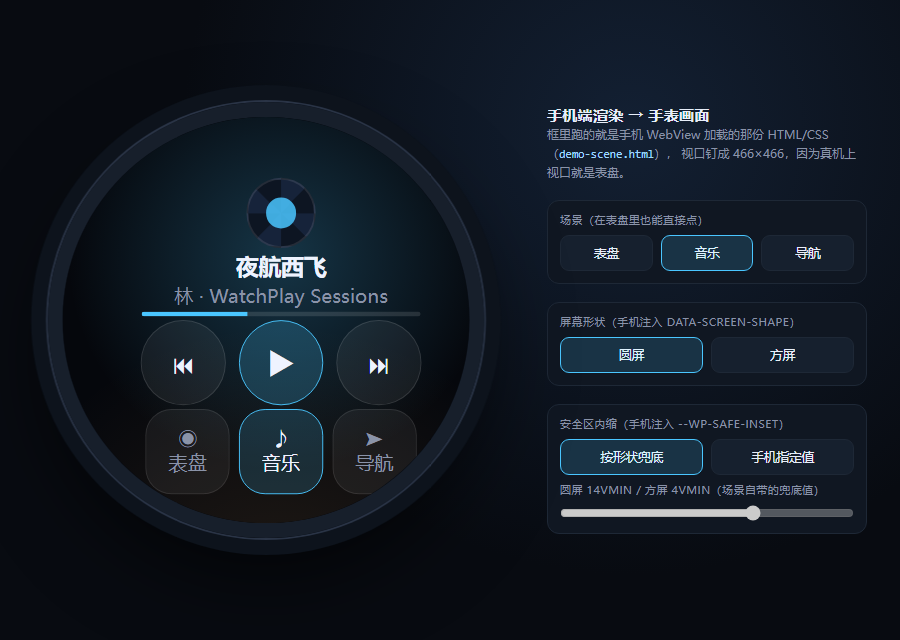
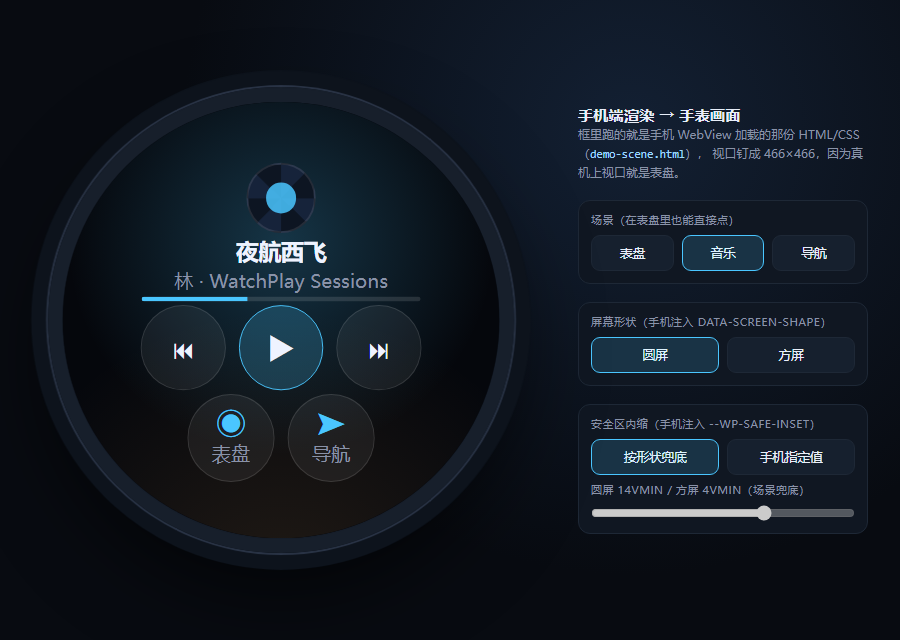
场景：每页只给"别的页面"的入口，并修掉预览外壳的 16px 裁切
表盘原来同时有两个快捷圆钮和底部三键，音乐/导航页也各自留着自己的入口——重复且没必要。改成每页只放另外两个页面的切换键。
另外 .device 是 border-box，466px 里塞了 16px 边框和 466px 的 iframe，右边和下边各被裁 16px，画面看着整体偏右下。改成 content-box 后实测按钮行中心 280.5 = 面板中心 280.5。

diff --git a/examples/watch-ui/demo-scene.html b/examples/watch-ui/demo-scene.html
@@ -56,19 +56,19 @@ html,body{
 /* 不许被 flex 压扁：圆形的封面一压就成了椭圆，这在 466px 的圆屏上很显眼。 */
 .overlay > *{ flex:0 0 auto; }
 
-/* ---------------------------------------------------------------- 底部三键 */
-.tabs{ display:flex; gap:2vmin; align-items:center; justify-content:center; }
-.btn-tab{
-  width:19.4vmin; height:19.4vmin; border-radius:6vmin;
-  display:flex; flex-direction:column; align-items:center; justify-content:center; gap:.4vmin;
-  background:rgba(255,255,255,.055); border:.35vmin solid rgba(255,255,255,.10);
-  color:var(--wp-dim); font-size:4.4vmin; font-family:inherit;
-  transition:background .12s linear, color .12s linear, border-color .12s linear;
+/* ---------------------------------------------------------------- 底部切换 */
+/* 只放"别的页面"：当前页面不给自己的入口，也不会和场景里的按钮重复。 */
+.tabs{ display:flex; gap:3vmin; align-items:center; justify-content:center; }
+.btn-switch{
+  width:20vmin; height:20vmin; border-radius:50%;
+  display:flex; flex-direction:column; align-items:center; justify-content:center; gap:.5vmin;
+  background:rgba(255,255,255,.06); border:.35vmin solid rgba(255,255,255,.12);
+  color:var(--wp-fg); font-size:4.4vmin; font-family:inherit;
+  transition:background .12s linear, border-color .12s linear;
 }
-.btn-tab[data-current="1"]{
-  color:var(--wp-fg); border-color:var(--wp-accent); background:rgba(74,198,255,.16);
-}
-.btn-tab .k{ font-size:4.4vmin; line-height:1; }
+.btn-switch .ico{ font-size:7vmin; line-height:1; color:var(--wp-accent); }
+.btn-switch .lbl{ font-size:4.4vmin; color:var(--wp-dim); }
+.btn-switch:active{ background:rgba(74,198,255,.22); border-color:var(--wp-accent); }
 
 /* ---------------------------------------------------------------- 表盘 */
 .bg-face{
@@ -78,20 +78,13 @@ html,body{
 }
 .face-top{ display:flex; flex-direction:column; align-items:center; gap:.8vmin; }
 .face-time{
-  font-size:17vmin; line-height:1; font-weight:600; letter-spacing:-.02em;
+  font-size:17vmin; line-height:1; font-weight:600;
   text-shadow:0 0 6vmin rgba(74,198,255,.28);
 }
 .face-date{ font-size:4.6vmin; color:var(--wp-dim); }
-.face-row{ display:flex; gap:5vmin; align-items:center; }
-.btn-quick{
-  width:21vmin; height:21vmin; border-radius:50%;
-  display:flex; flex-direction:column; align-items:center; justify-content:center; gap:.6vmin;
-  background:rgba(255,255,255,.06); border:.4vmin solid rgba(255,255,255,.12);
-  color:var(--wp-fg); font-size:4.6vmin; font-family:inherit;
-}
-.btn-quick .ico{ font-size:7vmin; line-height:1; color:var(--wp-accent); }
-.btn-quick .lbl{ font-size:4.4vmin; color:var(--wp-dim); }
-.btn-quick:active{ background:rgba(74,198,255,.22); }
+.face-status{ font-size:4.4vmin; color:var(--wp-dim); opacity:.75; }
+/* 表盘只有"时钟 + 切换"两块：让时钟占满剩余空间并居中，否则会全挤在顶部。 */
+.overlay > .face-top{ flex:1 1 auto; justify-content:center; }
 
 /* ---------------------------------------------------------------- 音乐 */
 .bg-music{
@@ -181,21 +174,12 @@ html,body{
     <div class="face-top">
       <div class="face-time" id="clock">10:09</div>
       <div class="face-date" id="date">周一 3 月 2 日</div>
-    </div>
-
-    <div class="face-row">
-      <button class="btn-quick" data-goto="music" aria-label="打开音乐">
-        <span class="ico">♪</span><span class="lbl">音乐</span>
-      </button>
-      <button class="btn-quick" data-goto="map" aria-label="打开导航">
-        <span class="ico">➤</span><span class="lbl">导航</span>
-      </button>
+      <div class="face-status">电量 82% · 步数 6,240</div>
     </div>
 
     <div class="tabs">
-      <button class="btn-tab" data-goto="face" data-current="1"><span class="k">◉</span>表盘</button>
-      <button class="btn-tab" data-goto="music"><span class="k">♪</span>音乐</button>
-      <button class="btn-tab" data-goto="map"><span class="k">➤</span>导航</button>
+      <button class="btn-switch" data-goto="music"><span class="ico">♪</span><span class="lbl">音乐</span></button>
+      <button class="btn-switch" data-goto="map"><span class="ico">➤</span><span class="lbl">导航</span></button>
     </div>
   </div>
 </section>
@@ -220,9 +204,8 @@ html,body{
     </div>
 
     <div class="tabs">
-      <button class="btn-tab" data-goto="face"><span class="k">◉</span>表盘</button>
-      <button class="btn-tab" data-goto="music" data-current="1"><span class="k">♪</span>音乐</button>
-      <button class="btn-tab" data-goto="map"><span class="k">➤</span>导航</button>
+      <button class="btn-switch" data-goto="face"><span class="ico">◉</span><span class="lbl">表盘</span></button>
+      <button class="btn-switch" data-goto="map"><span class="ico">➤</span><span class="lbl">导航</span></button>
     </div>
   </div>
 </section>
@@ -257,9 +240,8 @@ html,body{
     </div>
 
     <div class="tabs">
-      <button class="btn-tab" data-goto="face"><span class="k">◉</span>表盘</button>
-      <button class="btn-tab" data-goto="music"><span class="k">♪</span>音乐</button>
-      <button class="btn-tab" data-goto="map" data-current="1"><span class="k">➤</span>导航</button>
+      <button class="btn-switch" data-goto="face"><span class="ico">◉</span><span class="lbl">表盘</span></button>
+      <button class="btn-switch" data-goto="music"><span class="ico">♪</span><span class="lbl">音乐</span></button>
     </div>
   </div>
 </section>
@@ -287,11 +269,6 @@ html,body{
     var id = current();
     scenes.forEach(function (scene) {
       scene.dataset.active = scene.dataset.scene === id ? "1" : "0";
-    });
-    Array.prototype.forEach.call(document.querySelectorAll("[data-goto]"), function (el) {
-      if (el.classList.contains("btn-tab")) {
-        el.dataset.current = el.dataset.goto === id ? "1" : "0";
-      }
     });
   }
 

diff --git a/examples/watch-ui/preview/index.html b/examples/watch-ui/preview/index.html
@@ -26,6 +26,9 @@
   .stage{ display:flex; align-items:center; justify-content:center; }
   .device{
     position:relative; width:466px; height:466px; border-radius:50%;
+    /* content-box：边框加在 466px 之外。用 border-box 时内容区只剩 434px，里面的 466px iframe
+       会被裁掉右边和下边各 16px，画面看起来整体向右下偏。 */
+    box-sizing:content-box;
     border:16px solid #171f2b;
     box-shadow:0 0 0 2px #2a3446, 0 0 0 18px #0d131c, 0 40px 90px rgba(0,0,0,.65),
                inset 0 0 40px rgba(0,0,0,.8);
@@ -92,7 +95,7 @@
       <button data-inset-mode="auto" data-on="1">按形状兜底</button>
       <button data-inset-mode="fixed">手机指定值</button>
     </div>
-    <span id="inset-label">圆屏 14vmin / 方屏 4vmin（场景自带的兜底值）</span>
+    <span id="inset-label">圆屏 14vmin / 方屏 4vmin（场景兜底）</span>
     <input id="inset" type="range" min="60" max="180" step="10" value="140" disabled>
   </div>
 </div>
@@ -135,7 +138,7 @@
     inset.disabled = !injected;
     insetLabel.textContent = injected
       ? "手机注入 " + permille + "‰ → " + (permille / 10) + "vmin"
-      : "圆屏 14vmin / 方屏 4vmin（场景自带的兜底值）";
+      : "圆屏 14vmin / 方屏 4vmin（场景兜底）";
     var query = "?shape=" + shape + (injected ? "&inset=" + permille : "");
     view.src = "../demo-scene.html" + query + "#" + scene;
     device.classList.toggle("square", shape === "square");
